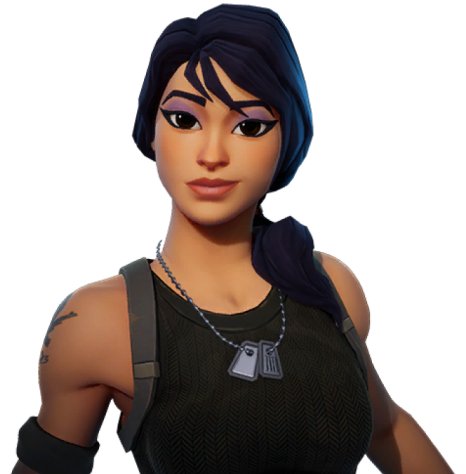
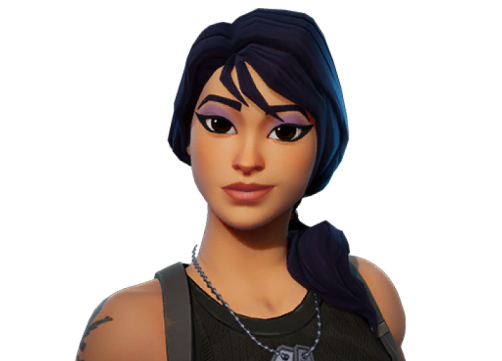
Refatorando a seção 'O que São NFTs'

diff --git a/index.html b/index.html
@@ -51,7 +51,7 @@
             </figure>
         </section>
 
-        <section class="d-flex justify-content-md-between info pt-4 pb-4">
+        <section class="d-flex justify-content-md-between info mt-72 mb-72 pt-4 pb-4">
             <div class="info__itens">
                 <h2 class="info__subtitulo mb-1">60k</h2>
                 <p class="info__paragrafo mb-0">Usuários Ativos</p>
@@ -75,25 +75,29 @@
     </header>
 
     <main class="container conteudo">
-        <section class="margin__secao align-items-lg-center justify-content-between row row-cols-1 row-cols-lg-2 sobreNFT">
-            <figure class="d-flex flex-column justify-content-center mb-lg-0 persona">
-                <img src="assets/img/image/img-samantha.png" alt="Imagem da personagem Samantha" class="align-self-center persona__img w-100">
+        <section class="d-lg-flex align-items-lg-end justify-content-lg-between mb-72 pt-72 sobreNft">
+            <div class="d-flex flex-column mb-72 mb-lg-0 persona">
+                <img src="assets/img/image/img-samantha.png" class="align-self-center w-100 persona__img" alt="Imagem da personagem Samantha">
 
-                <figcaption class="p-3 persona__descricao rounded-3">
-                    <h3 class="mb-4 persona__subtitulo text-center">Samantha</h3>
-                    <p class="mb-0 text-center">Apresentamos a você uma heroína corajosa e determinada, pronta para enfrentar qualquer desafio que venha pela frente.</p>
-                </figcaption>
-            </figure>
+                <div class="persona__body p-3 rounded-3">
+                    <h5 class="card-title persona__subtitulo text-center mb-4">Samantha</h5>
+                    <p class="mb-0 persona__paragrafo text-center">Apresentamos a você uma heroína corajosa e determinada, pronta para enfrentar qualquer desafio que venha pela frente.</p>
+                </div>
+            </div>
 
-            <div class="d-flex flex-column align-items-center sobreNFT__descricao">
-                <h2 class="sobreNFT__subtitulo text-center">O que são NFTs?</h2>
-                <p class="sobreNFT__paragrafo">Os NFTs de animações e gráficos em 3D são uma nova forma de possuir e colecionar conteúdo digital em três dimensões. <br><br>
-                    Com a tecnologia blockchain, é possível registrar cada animação ou gráfico em 3D de forma única e verificável, tornando-o uma propriedade exclusiva e inestimável. <br><br>
-                    Como NFT, essas animações e gráficos podem ser vendidos, trocados ou colecionados como ativos digitais. <br><br>
+            <div class="d-flex flex-column sobreNft__explicacao">
+                <h2 class="mb-52 explicacao__subtitulo text-center text-lg-start">O que são NFTs?</h2>
+                <p class="mb-52 explicacao__paragrafo">
+                    Os NFTs de animações e gráficos em 3D são uma nova forma de possuir e colecionar conteúdo digital em três dimensões. 
+                    <br><br>
+                    Com a tecnologia blockchain, é possível registrar cada animação ou gráfico em 3D de forma única e verificável, tornando-o uma propriedade exclusiva e inestimável. 
+                    <br><br>
+                    Como NFT, essas animações e gráficos podem ser vendidos, trocados ou colecionados como ativos digitais.
+                    <br><br>
                     Além disso, o proprietário de um NFT de animação ou gráfico em 3D tem a garantia de que seu conteúdo é autêntico e original, e que não há outra cópia idêntica no mundo digital.
                 </p>
-                <button class="botao__principal mb-0">Adquirir NFTs</button>
-            </div
+                <button class="align-self-center align-self-lg-start botao__principal mb-lg-0">Comunidade NFT</button>
+            </div>
         </section>
     </main>
 

diff --git a/assets/css/componentes/2-main/1-sobreNFT.css b/assets/css/componentes/2-main/1-sobreNFT.css
@@ -1,12 +1,8 @@
-.persona {
-    margin-bottom: 4.5rem;
-}
-
 .persona__img {
-    max-width: 20.5rem;
+    max-width: 31.3125rem;
 }
 
-.persona__descricao {
+.persona__body{
     background-color: var(--rosa-clarinho);
 }
 
@@ -16,39 +12,20 @@
     line-height: 2.25rem;
 }
 
-.sobreNFT__subtitulo {
+.explicacao__subtitulo {
     font-size: 2.25rem;
     font-weight: 700;
     line-height: 3.375rem;
     margin-bottom: 3.25rem;
 }
 
-.sobreNFT__paragrafo {
-    margin-bottom: 3.25rem;
-}
-
-@media screen and (min-width: 768px) {
-    .persona__img {
-        max-width: 23.75rem;
-    }
-}
 
 @media screen and (min-width: 992px) {
     .persona {
-        max-width: 33.1563rem;
+        max-width: 45%;
     }
-    
-    .sobreNFT__descricao {
-        max-width: 34.375rem;
-    }
-}
 
-@media screen and (min-width: 1200px) {
-    .persona {
-        max-width: 35rem;
-    }
-    
-    .sobreNFT__descricao {
-        max-width: 34.375rem;
+    .sobreNft__explicacao {
+        max-width: 45%;
     }
 }

diff --git a/assets/css/base/base.css b/assets/css/base/base.css
@@ -4,6 +4,7 @@
 @import url(../componentes/1-header/2-chamada.css);
 @import url(../componentes/1-header/3-info.css);
 @import url(../componentes/2-main/1-sobreNFT.css);
+@import url(../componentes/2-main/2-produtos.css);
 
 body {
     background-color: var(--vinho);
@@ -25,7 +26,39 @@ body {
     color: var(--rosa);
 }
 
-.margin__secao {
+.subtitulo {
+    font-size: 2.25rem;
+    font-weight: 700;
+    line-height: 3.375rem;
+}
+
+/* Margens pré-definidas */
+.mt-52 {
+    margin-top: 3.25rem;
+}
+.mb-52 {
+    margin-bottom: 3.25rem;
+}
+
+.mt-72 {
+    margin-top: 4.5rem;
+}
+.mb-72 {
+    margin-bottom: 4.5rem;
+}
+
+
+/* Paddings pré-definidos */
+.pt-52 {
+    padding-top: 3.25rem;
+}
+.pb-52 {
+    padding-bottom: 3.25rem;
+}
+
+.pt-72 {
     padding-top: 4.5rem;
+}
+.pb-72 {
     padding-bottom: 4.5rem;
 }

diff --git a/assets/css/componentes/1-header/3-info.css b/assets/css/componentes/1-header/3-info.css
@@ -1,7 +1,4 @@
 .info {
-    margin-top: 4.5rem;
-    margin-bottom: 4.5rem;
-
     flex-wrap: wrap;
     width: 100%;
 }
